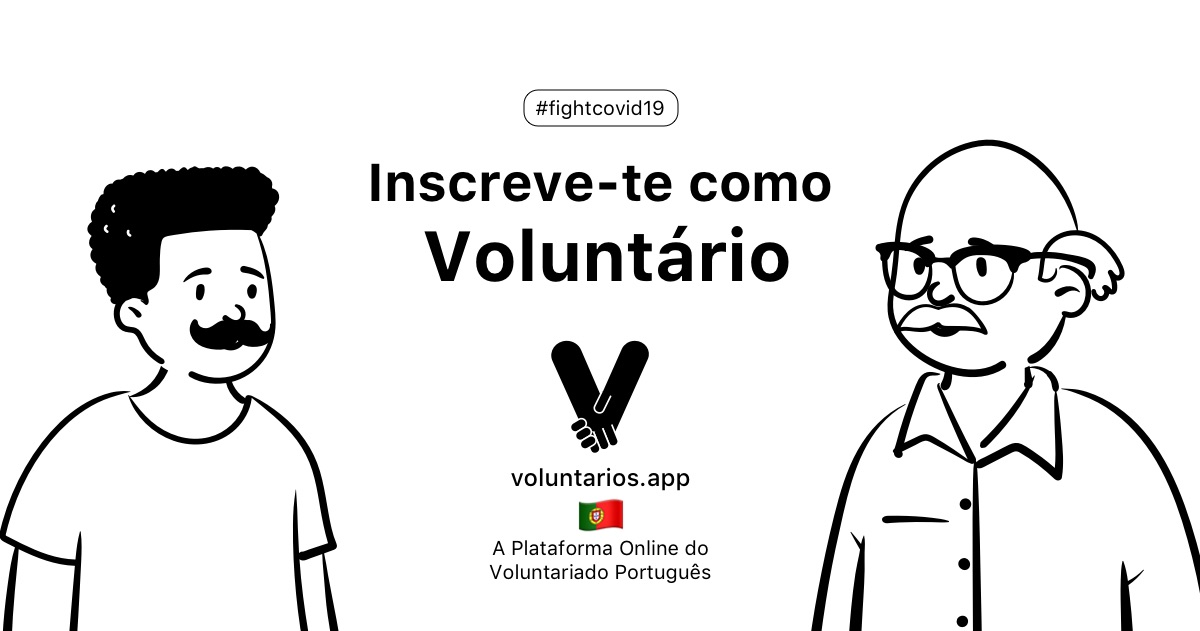
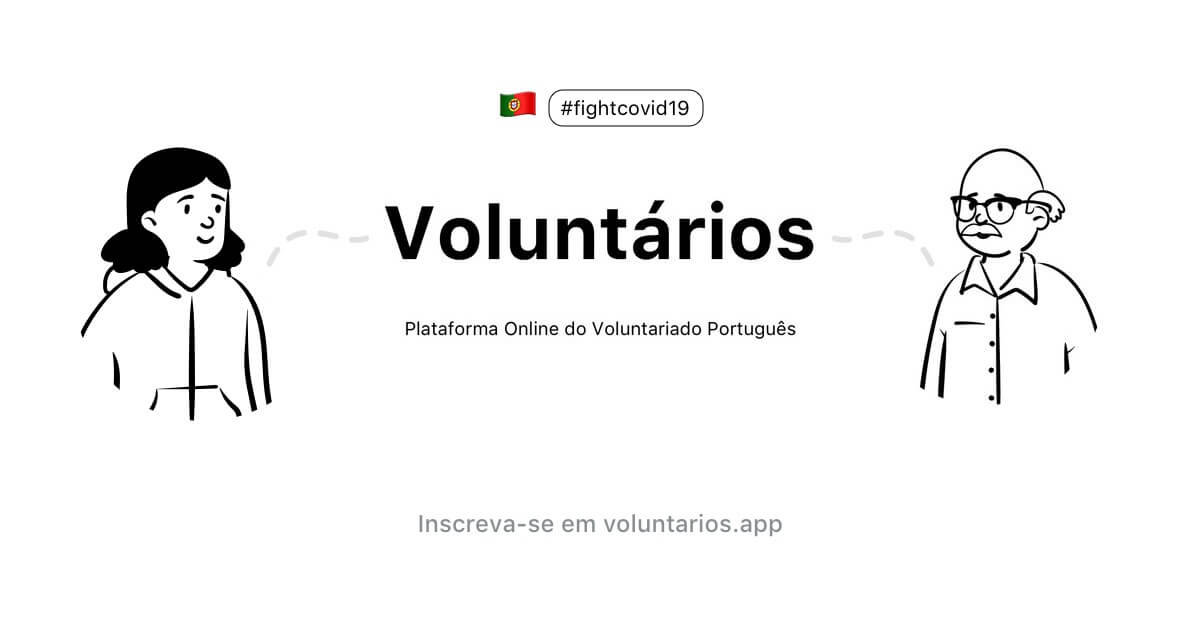
Rework/Add: Rework SEO / Add #fightcovid19 badge

diff --git a/containers/Seo.js b/containers/Seo.js
@@ -1,14 +1,14 @@
 import React, { useMemo } from 'react';
 import Head from 'next/head';
-import PropTypes from 'prop-types';
 import SEO_DATA from '../assets/data/seo.json';
 
-const Seo = ({ title, description }) => {
+const Seo = ({ title = null, description = null, shouldAppend = true }) => {
   const computedTitle = useMemo(() => {
-    if (title) return `${title} - ${SEO_DATA.title}`;
+    if (title && shouldAppend) return `${title} - ${SEO_DATA.title}`;
+    if (title) return `${title}`
     return SEO_DATA.title;
   },
-  [title]);
+  [title, shouldAppend]);
 
 
   const computedImg = useMemo(() => {
@@ -38,16 +38,6 @@ const Seo = ({ title, description }) => {
       <link rel="icon" href="/favicon.png" />
     </Head>
   );
-};
-
-Seo.propTypes = {
-  title: PropTypes.string,
-  description: PropTypes.string,
-};
-
-Seo.defaultProps = {
-  title: null,
-  description: null,
 };
 
 export default Seo;

diff --git a/components/organisms/Nav/Nav.js b/components/organisms/Nav/Nav.js
@@ -209,6 +209,10 @@ const Nav = ({ skipAuth = false }) => {
               <Logo />
             </a>
           </Link>
+          <Spacer x={0.5} />
+          <div className="badge badge--mini badge--inverse">
+              #fightcovid19
+          </div>
         </div>
         <div className="nav__end">
           <AnimatePresence initial={false} exitBeforeEnter>
@@ -243,6 +247,10 @@ const Nav = ({ skipAuth = false }) => {
         justify-content: space-between;
         padding: var(--spacing-xs4) 0px;
         height: 56px;
+        &__start {
+          display: flex;
+          align-items: center;
+        }
         &__end {
           display: flex;
           @media (max-width: 768px) {

diff --git a/components/atoms/Badge/Badge.module.scss b/components/atoms/Badge/Badge.module.scss
@@ -1,8 +1,17 @@
 .badge {
 	color: var(--baseInverse);
 	font-size: var(--size-xs);
-	padding: var(--spacing-xs4) var(--spacing-xs2); 
+	padding: var(--spacing-xs4) var(--spacing-xs2);
 	border-radius: var(--borderRadius);
 	font-weight: bold;
 	text-align: center;
+	&--mini {
+		font-size: var(--size-xs2);
+		padding: var(--spacing-xs4);
+	}
+	&--inverse {
+		background-color: var(--bg);
+		color: var(--base);
+		border: 1px solid var(--border);
+	}
 }

diff --git a/pages/index.js b/pages/index.js
@@ -176,7 +176,7 @@ const Index = () => {
 
   return (
     <>
-    <Seo />
+    <Seo title="Voluntários - Inscreva-se!"/>
     <Layout title="Voluntários" description={<Description showAction={!user} />}>
         <div className="volunteers">
           {renderFilters()}
